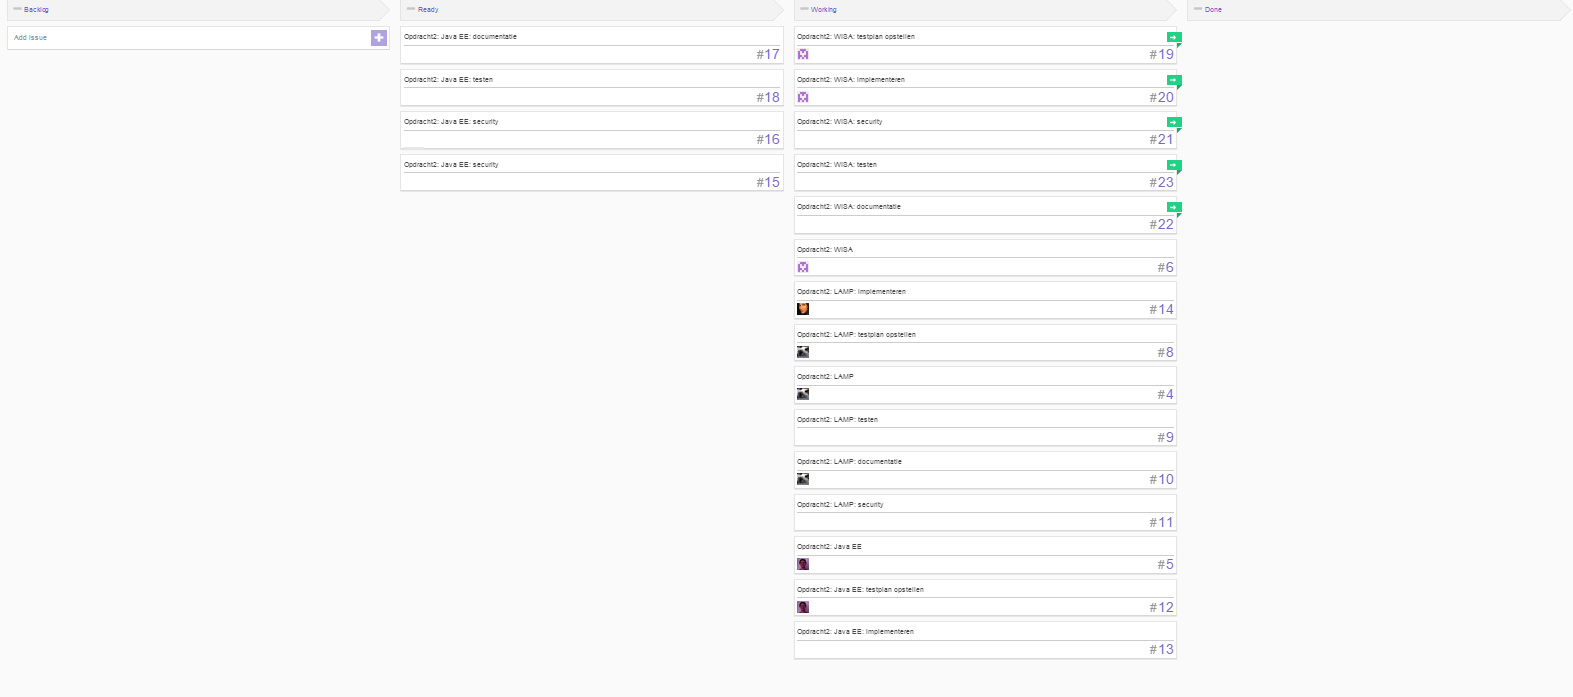
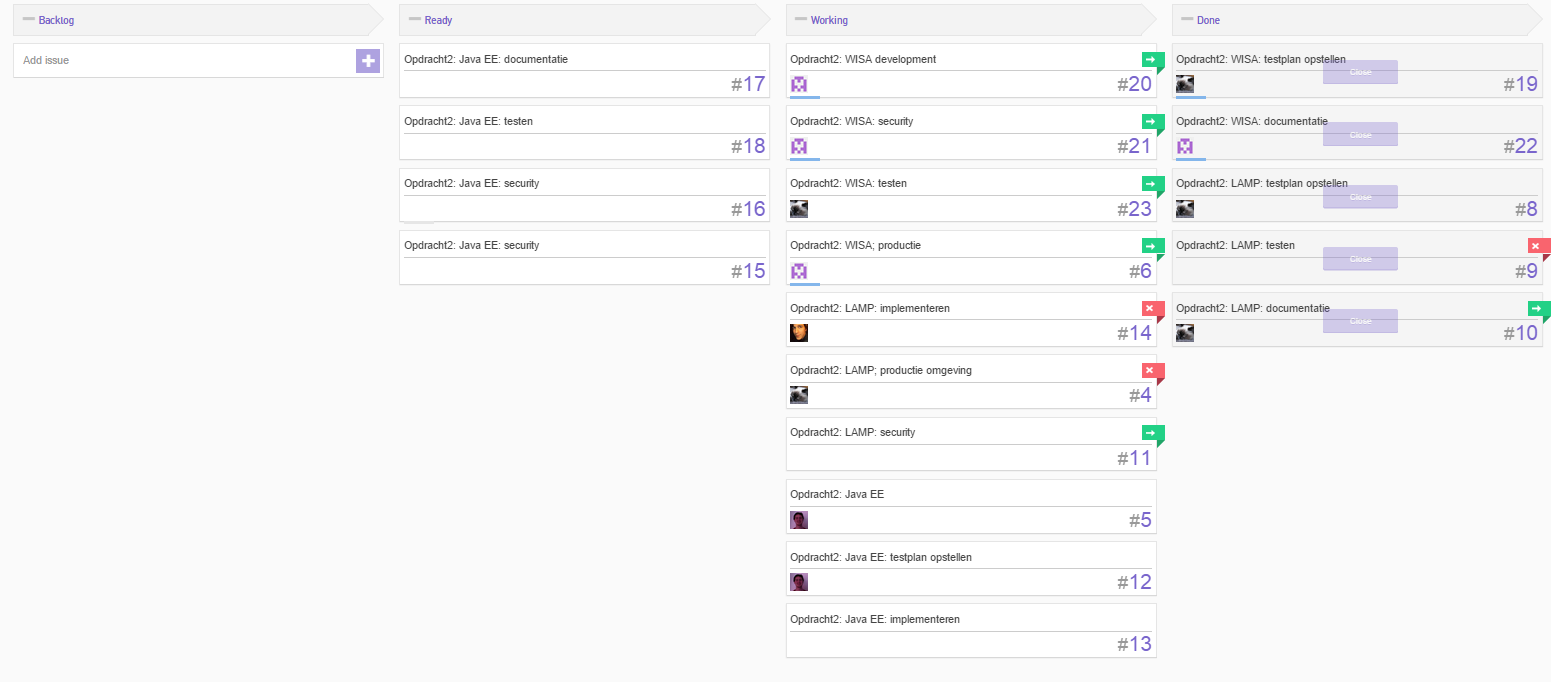
Weekrapport en screens w06

diff --git a/weekrapport/week06.md b/weekrapport/week06.md
@@ -1,0 +1,83 @@
+# Voortgangsrapport week nn
+
+* Groep: g07
+* Datum: 19/03/2015
+
+| Student  | Aanw. | Opmerking |
+| :---     | :---  | :---      |
+| Natasha Heinkens |       |           |
+| Robbe Van Daele |       |           |
+| Birgitta Croux |       |           |
+| Hans Meuris |       |           |
+
+## Wat heb je deze week gerealiseerd?
+
+### Algemeen
+
+[Afbeelding huidige toestand Kanban-bord(en) invoegen]
+
+* DO2: WISA-stack: afgewerkt
+* DO2: LAMP-stack: documentatie en testen bijgewerkt
+* 
+
+[Afbeelding teamoverzicht tijdregistratie onderverdeeld per deelopdracht]
+
+### Natasha Heinkens
+
+* Opstelling WISA-stack + demo-applicatie
+* Testrapport WISA-stack afgewerkt
+* Documentatie LAMP-stack bijgewerkt
+* LAMP-stack testen
+
+[Afbeelding individueel rapport tijdregistratie]
+
+### Robbe Van Daele
+
+* ...
+
+[Afbeelding individueel rapport tijdregistratie]
+
+### Birgitta Croux
+
+* DO2: WISA-stack productieomgeving + demo-app afgewerkt
+* DO3: uitvoering labo 4
+
+[Afbeelding individueel rapport tijdregistratie]
+
+### Hans Meuris
+
+* ...
+
+[Afbeelding individueel rapport tijdregistratie]
+
+## Wat plan je volgende week te doen?
+
+### Algemeen
+### Natasha Heinkens
+### Robbe Van Daele
+### Birgitta Croux
+### Hans Meuris
+
+## Waar hebben jullie nog problemen mee?
+
+* ...
+* ...
+
+## Feedback technisch luik
+
+### Algemeen
+
+### Natasha Heinkens
+### Robbe Van Daele
+### Birgitta Croux
+### Hans Meuris
+
+## Feedback analyseluik
+
+### Algemeen
+
+### Natasha Heinkens
+### Robbe Van Daele
+### Birgitta Croux
+### Hans Meuris
+
